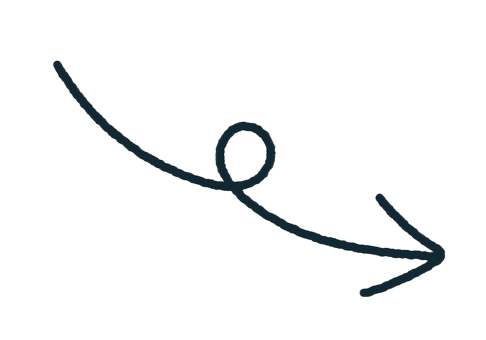
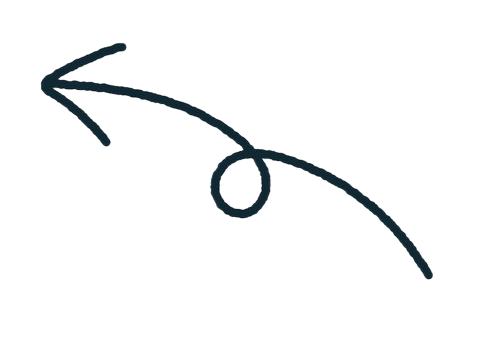
freccie aggiunte

Changed region(s): [[0.0617, 0.1176, 0.9259, 0.8824]]

diff --git a/css/style.css b/css/style.css
@@ -2,7 +2,11 @@
 h1{
     text-align: center; //Commento
 }
-
+img{
+    align-items: center;
+        margin: 0 auto;
+        width: 70%;
+}
 .Pulsante{
     border: 2px solid black;
     margin: 0 auto;
@@ -10,13 +14,14 @@ h1{
     height: 130px;
     border-radius: 10px;
     padding: 20px;
-    background-color: grey;
     cursor: pointer;
 }
 
 .Pulsante:hover{
 	background-color: #4CAF90;
-	padding: 10px;
+	padding: 20px;
+     width: 30%;
+     height: 130px;
 	transition: background-color 1s;
 	box-shadow: 10px 10px 20px gray;
             }

diff --git a/Libro.html b/Libro.html
@@ -12,8 +12,8 @@
         <div class="Contenitore">
             <iframe src=""></iframe>
             <div class="Riga">
-                <div class="Pulsante"><img src="./css/style.css"></div>
-                <div class="Pulsante"></div>
+                <div class="Pulsante"><img src="./img/Freccia2.png"></div>
+                <div class="Pulsante"><img src="./img/Freccia1.png"></div>
             </div>
 
     </body>
